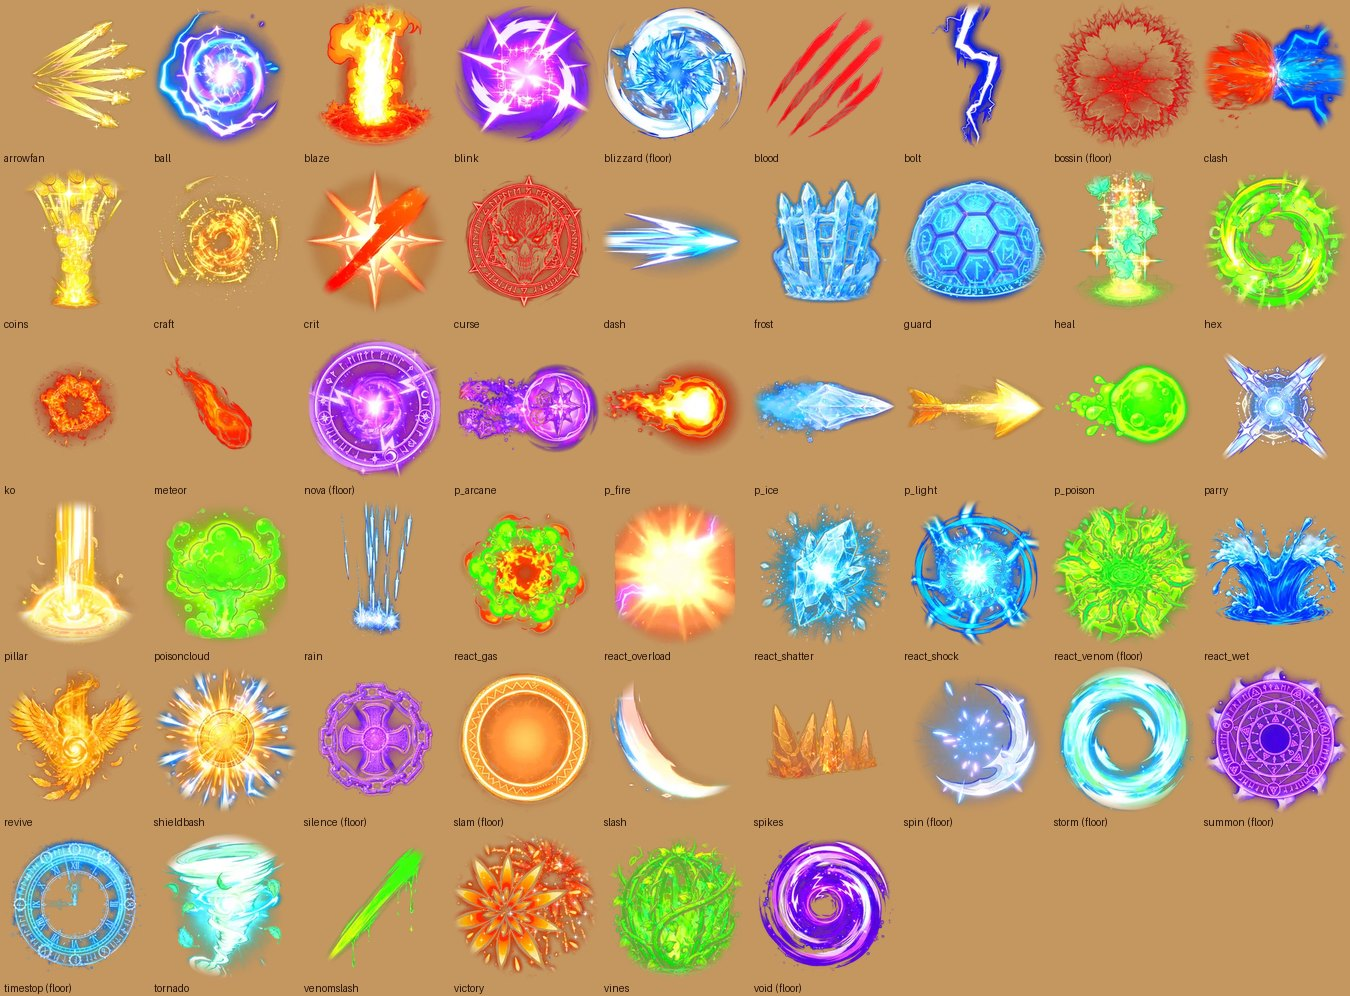
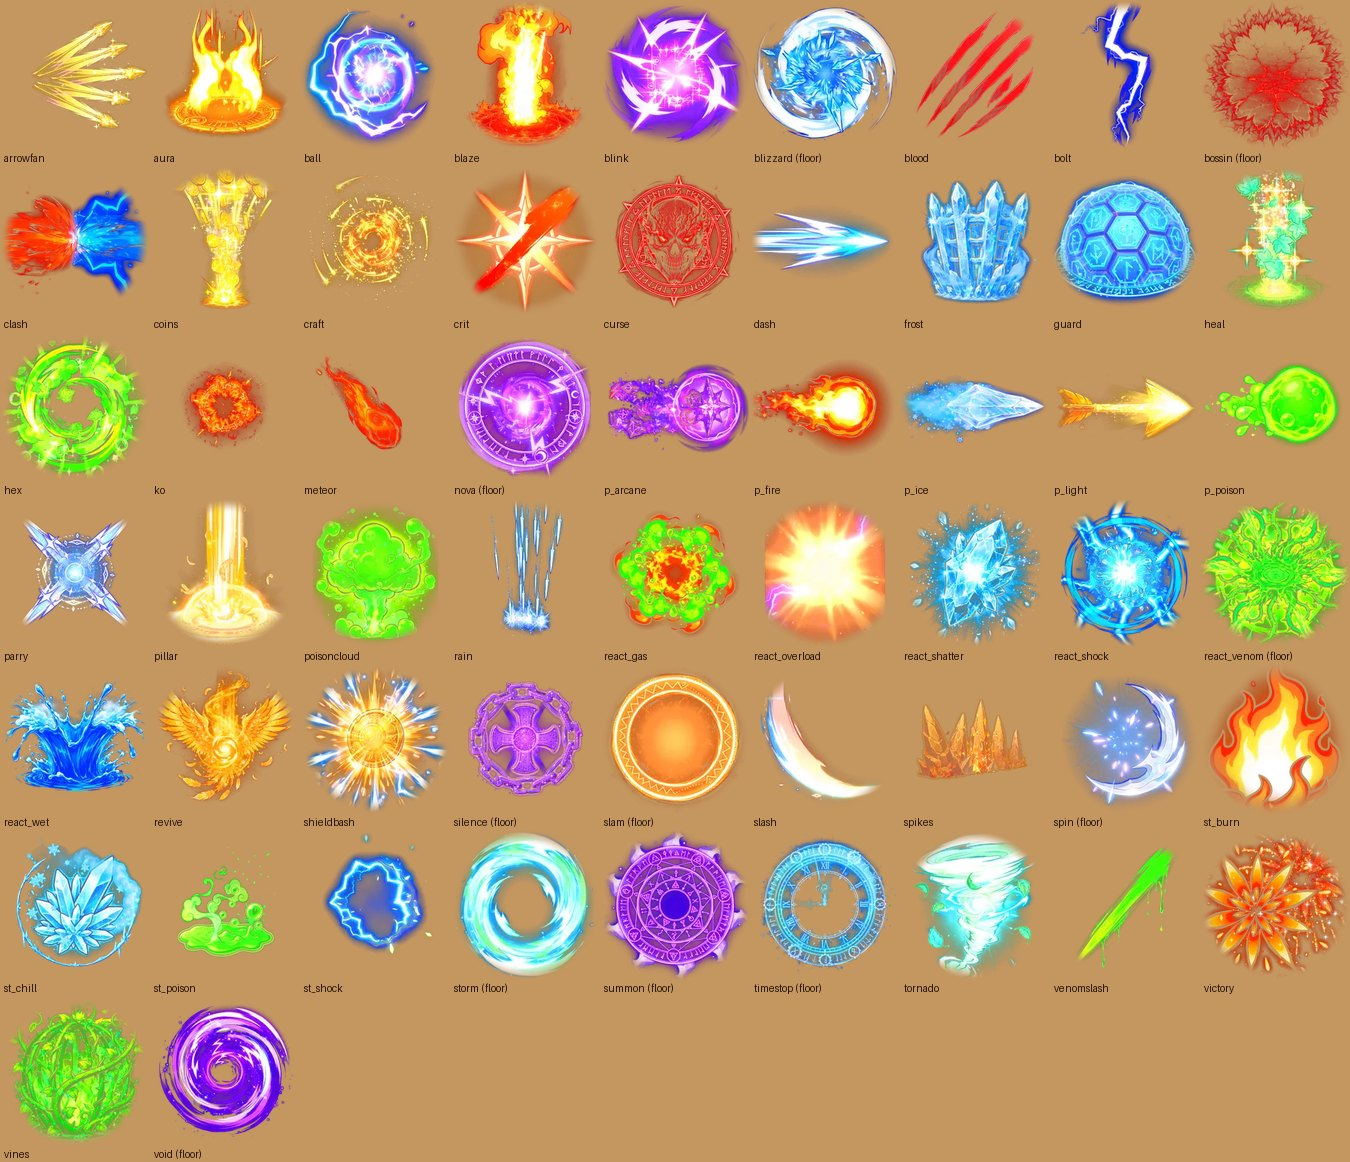
bag3d art: the arena in three more lands, UI symbols, five looping effects (aura + element statuses)

diff --git a/tools/art/bag_vfx.py b/tools/art/bag_vfx.py
@@ -40,6 +40,8 @@ FX = {
     # fight and screen moments
     'ko': D(12, 4, 70), 'bossin': D(18, 8, 170, flat=1), 'clash': D(20, 8, 180), 'victory': D(20, 4, 175), 'coins': D(18, 4, 175), 'craft': D(18, 8, 170),
     # projectiles (they stay in the middle of the video and loop; they fly to the right)
+    # loops that sit on a fighter: the power-up aura and the four element statuses (rad = keep only this share of the picture round the middle: the burn clip came with a frame)
+    'aura': D(14, 60, 110, loop=1, ease=1), 'st_burn': D(10, 60, 90, loop=1, ease=1, rad=.6), 'st_shock': D(10, 60, 90, loop=1, ease=1), 'st_poison': D(12, 60, 110, loop=1, ease=1), 'st_chill': D(10, 60, 100, loop=1, ease=1),
     'p_fire': D(10, 40, 70, loop=1, ease=1), 'p_ice': D(10, 40, 70, loop=1, ease=1), 'p_arcane': D(10, 40, 70, loop=1, ease=1), 'p_poison': D(10, 40, 70, loop=1, ease=1), 'p_light': D(10, 60, 90, loop=1, ease=1),
 }
 def frames_of(path, only=None):
@@ -67,7 +69,7 @@ def cut(key):
     n = C.get('n', 20); ease = C.get('ease', 1.5); idx = sorted(set(int(round(a + (b - a) * (i / (n - 1)) ** ease)) for i in range(n))); n = len(idx)
     fr, _, _ = frames_of(path, idx); H = W = WORK
     # the border fade: 1 in the middle, 0 at the picture edge (a smooth round window, the corners go first)
-    yy, xx = np.mgrid[0:H, 0:W].astype(np.float32); r = np.hypot((xx - W / 2) / (W / 2), (yy - H / 2) / (H / 2)); win = np.clip((1.0 - r) / .2, 0, 1); win = win * win * (3 - 2 * win)
+    yy, xx = np.mgrid[0:H, 0:W].astype(np.float32); r = np.hypot((xx - W / 2) / (W / 2), (yy - H / 2) / (H / 2)); win = np.clip((C.get('rad', 1.0) - r) / .2, 0, 1); win = win * win * (3 - 2 * win)
     cells = []
     for im in fr:
         im = im.astype(np.float32) / 255; v = im.max(axis=2); v = np.clip((v - .06) / .94, 0, 1)   # lift the black haze

diff --git a/art/incoming/bag3d/ui2/BRIEF.md b/art/incoming/bag3d/ui2/BRIEF.md
@@ -1,0 +1,51 @@
+# bag3d.html "ศึกแชมเปี้ยน 3D": three more arena looks + UI glyphs, Codex brief (2026-11-28)
+
+Owner: "ทำเกมส์ให้สวยเลยนะ 3D ทำให้ดูดีมีชาติตระกูล ... UI ทำทุกอย่างให้สวย", "พวกเจนทั้งหลายทำก่อน".
+You are making pictures only. Work ONLY inside the current folder. Do not use git, do not edit any other file of the repository.
+Make 4 pictures with the image tool, save each as a PNG in the current folder with exactly the file names below, then write `REPORT_TH.txt`
+(Thai, short: which file is which, and anything that did not come out right).
+
+Two reference pictures are attached:
+- `arena_target.png` = the look of our arena (sunny colosseum). The game changes land every five rounds, so we need the SAME arena in three
+  other lands. KEEP the camera, the layout and every big shape exactly where it is: the round floor, the curved wall, the three gates (left,
+  centre, right) with their bars, the braziers on the wall, the banners, the stands with the crowd, the medallion in the middle of the floor.
+  Only the theme changes: materials, colours, light, decorations, sky. The pictures must line up with `arena_target.png` when laid over it.
+- `ref_icons.png` = our item icons: the style for picture 4.
+
+Same style as `arena_target.png` for pictures 1-3: beautiful stylized hand-painted 3D mobile-game look, NOT pixel art, NOT photo-real.
+EMPTY arenas: no characters, no monsters, no user interface, no text. 1536 x 1024 each.
+
+## 1. `arena_grave.png`: the midnight graveyard arena
+Night. Dark blue-violet stone covered in moss and ivy, cracked and leaning in places; the floor is cold grey-violet earth with scattered
+bones, old gravestones and candles near the wall; the medallion in the middle is a carved skull-and-moon seal. Braziers burn with eerie
+blue-green ghost fire; banners are torn, dark purple and black with silver emblems; lanterns and candles give small warm points; thin
+ground mist; the crowd in the stands is dim hooded figures and pale ghost lights. A big pale moon glow from the top left, cool rim light.
+
+## 2. `arena_volcano.png`: the lava arena
+Dark basalt and obsidian walls with glowing orange lava cracks running through them, iron chains and spikes; the floor is dark scorched
+rock with thin glowing cracks and embers, a few lava pools near the wall (not in the middle); the medallion in the middle is a carved
+flame-and-dragon seal with a faint orange glow. Braziers burn bright orange, banners are black and red with gold emblems; smoke and
+sparks rise; the crowd is lit red from below. Sky glow deep red-orange, strong warm light from the lava, dark shadows.
+
+## 3. `arena_snow.png`: the frozen peak arena
+Bright cold day. Pale blue-grey stone walls capped with snow and long icicles, frost on the carved frieze; the floor is packed snow and
+blue ice with drifts against the wall, a few frozen weapons and ice blocks near the wall; the medallion in the middle is a carved
+snowflake seal under clear ice. Braziers burn with warm orange fire (the only warm colour), banners are white and ice-blue with silver
+emblems; light snowfall; the crowd wears furs. Soft blue shadows, crisp white light, a faint aurora tint in the sky.
+
+## 4. `ui_glyphs.png`, 1536 x 1024, TRANSPARENT background (or flat pure magenta #FF00FF if transparency is not possible)
+12 small UI symbols in exactly the style of `ref_icons.png` (dark-fantasy pixel-art icons, thick dark outline, rich shading), in ONE picture
+as a grid of 4 columns x 3 rows, every symbol centred in its own equal cell with clear empty space around it, no grid lines, no frames,
+no text, no letters, no numbers. Order, left to right, top to bottom:
+1 a red heart (a life)
+2 a single shining gold coin
+3 a horned demon skull (boss round)
+4 two crossed swords over a small round shield (duel round)
+5 a monster claw mark, three slashes (monster round)
+6 a closed golden padlock
+7 an open grey padlock
+8 two curved arrows forming a circle (rotate), gold
+9 a hand-sized coin purse with a coin dropping in (sell)
+10 a five-pointed gold star
+11 a double arrow pointing right (speed up), blue steel
+12 an open leather backpack with a gem inside (the bag)
